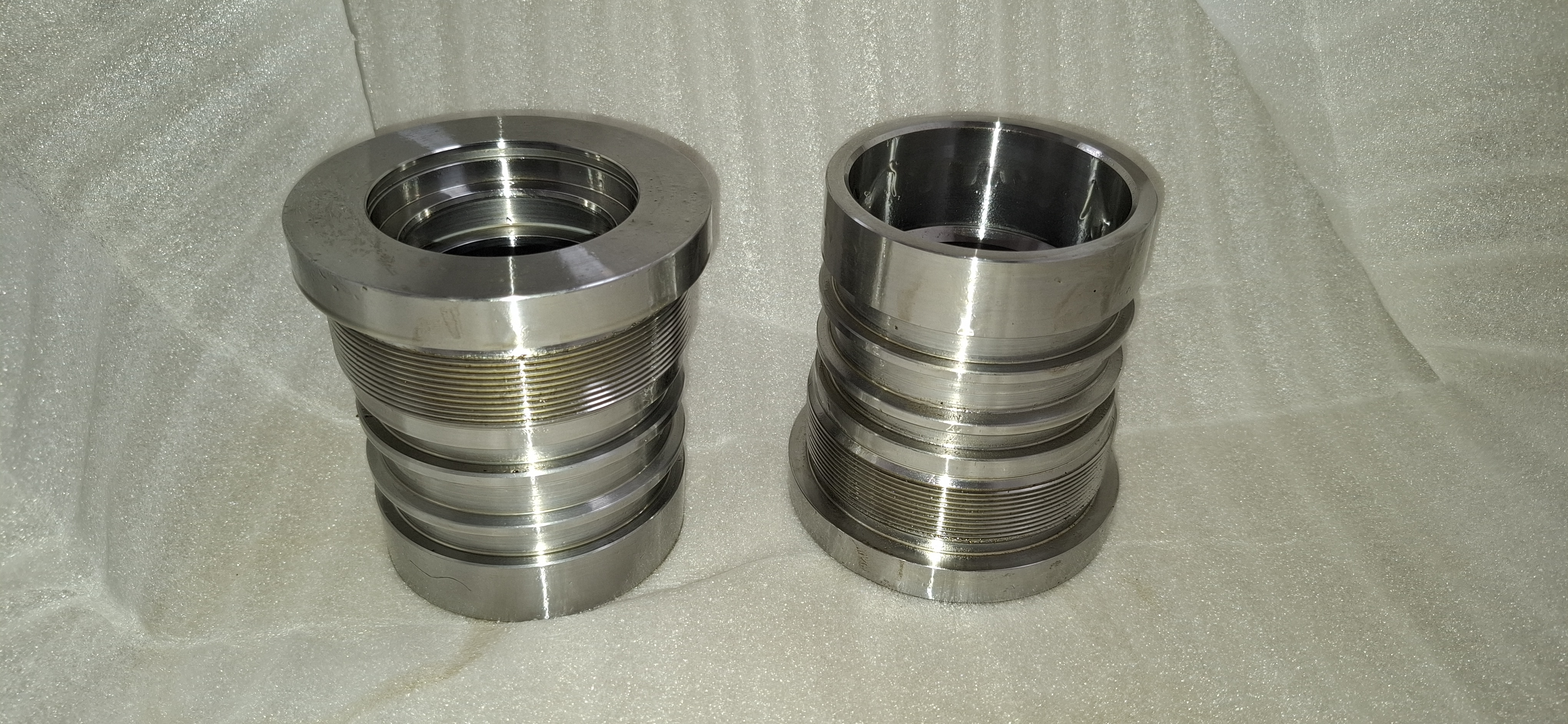
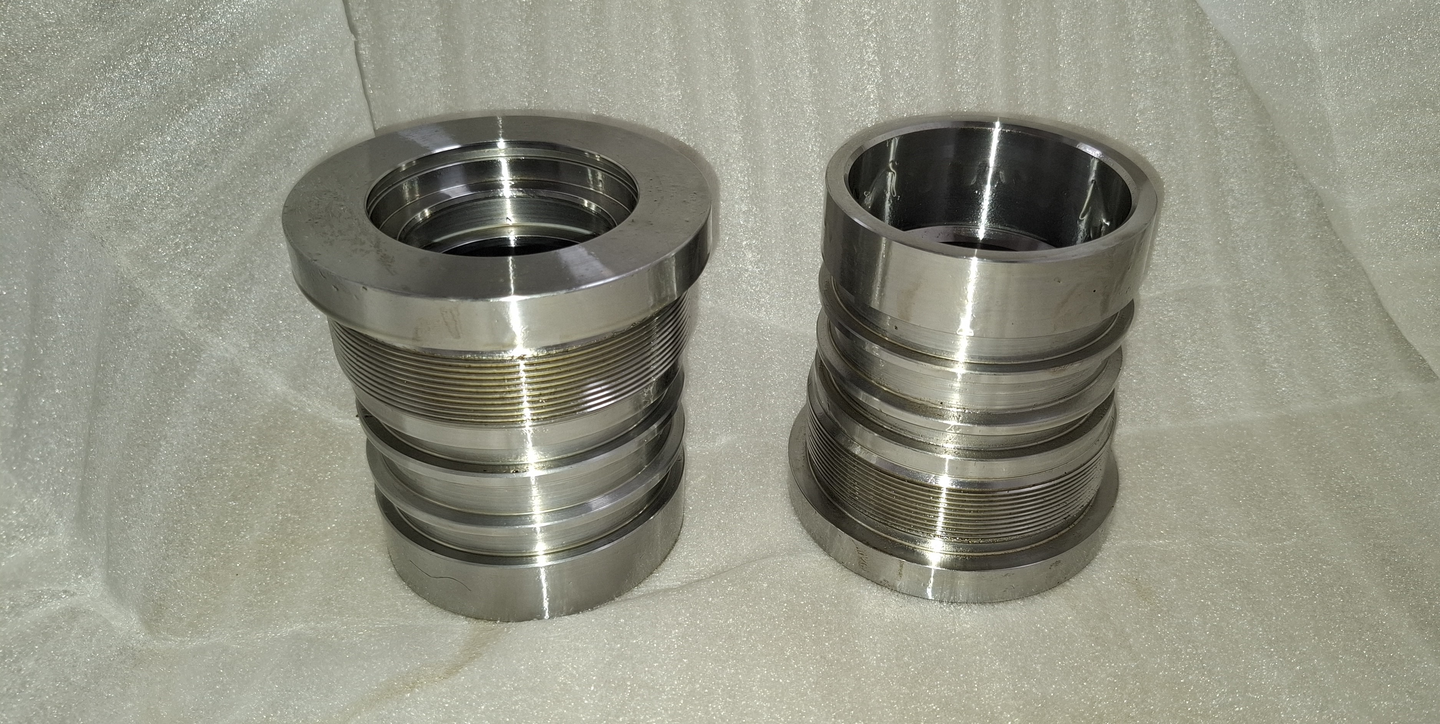
CNC-Final

diff --git a/src/pages/Gallery.jsx b/src/pages/Gallery.jsx
@@ -5,7 +5,7 @@ import { useEffect } from "react";
 
 const galleryImages = [
   "product4.JPG", "infra11.jpg", "Product4-1.JPG",
-  "Product2.jpg", "Product2-1.jpg", "Product2-2.jpg",
+  "infra7.jpg", "Product2-1.jpg", "Product2-2.jpg",
   "product1.JPG", "Product1-1.png", "infra16.JPG",
   "infra14.JPG", "infra1.jpg", "Product4-2.png",
   "Product5-3.png", "infra12.jpg", "Product5-1.png", "infra24.JPG",

diff --git a/src/pages/Home.jsx b/src/pages/Home.jsx
@@ -540,7 +540,7 @@ export default function Home() {
               },
               {
                 title: "Hydrolic Parts",
-                images: ["Product2.jpg", "Product2-2.jpg", "Product2-1.jpg"],
+                images: ["infra7.jpg", "Product2-2.jpg", "Product2-1.jpg"],
                 desc: "Ensuring consistent pressure handling and superior hydraulic efficiency."
 
               },
